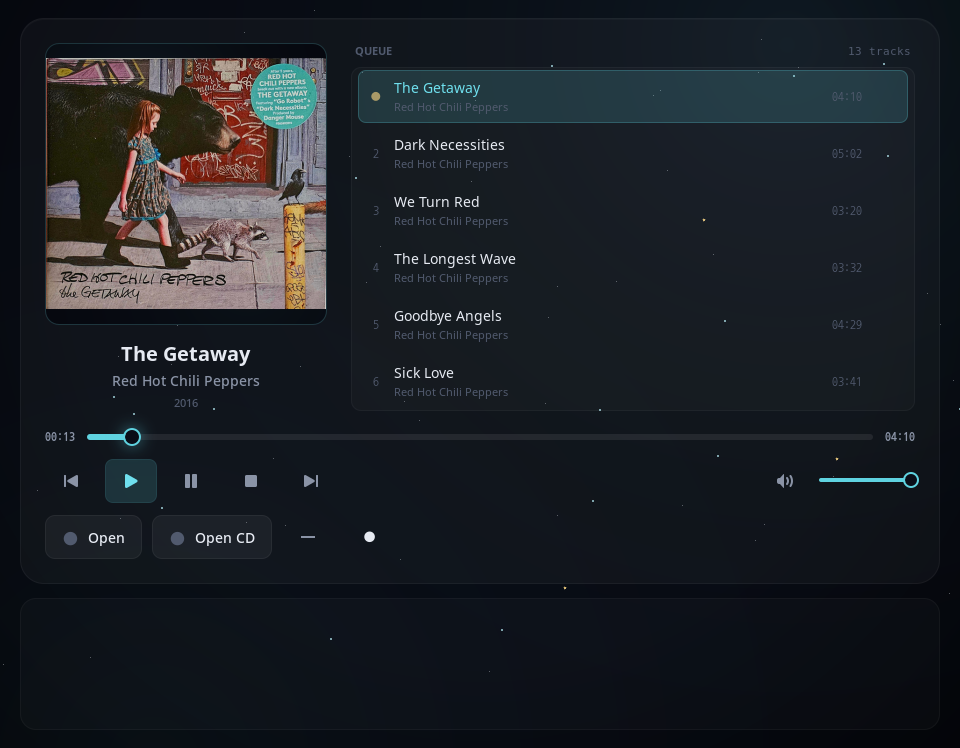
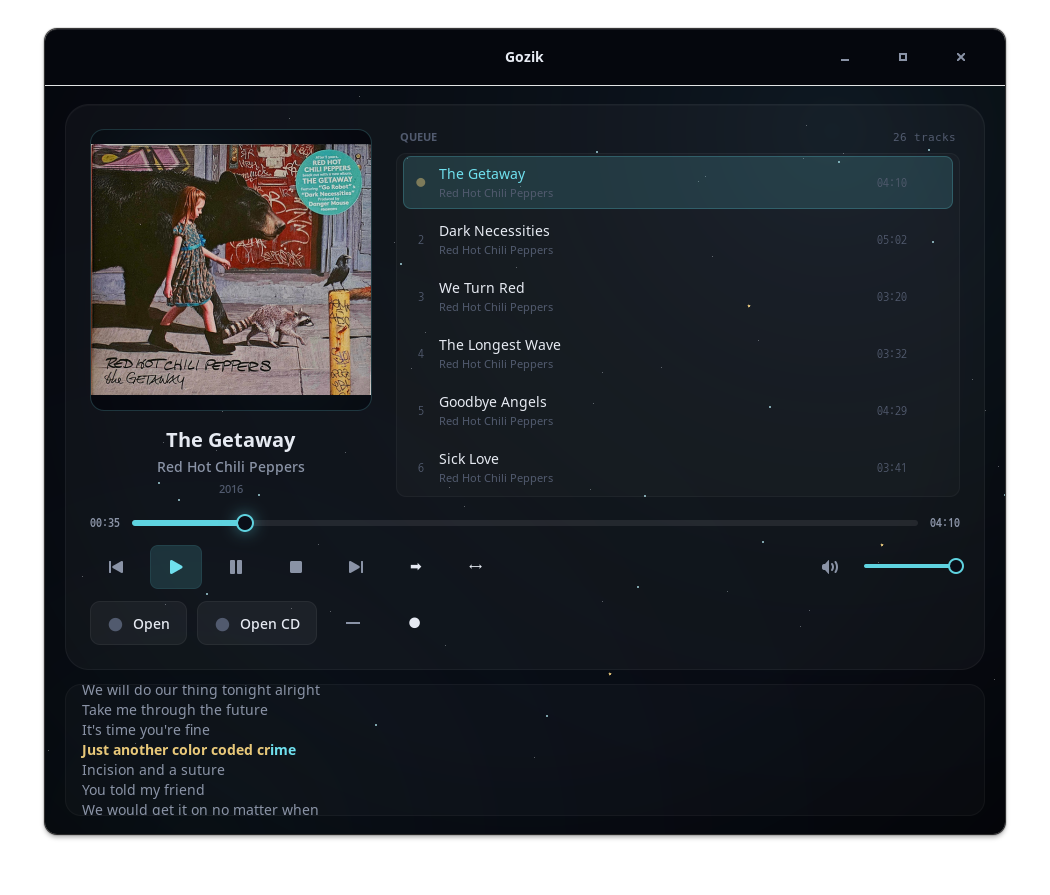
impl: implement lyrics highlighting

diff --git a/assets/ui/gozik.css b/assets/ui/gozik.css
@@ -562,3 +562,32 @@ window.theme-light button.btn-primary:hover { background-color: rgba(95,211,224,
 /* playing row cyan title + gold pulse */
 window.theme-light list row.playing #row-title { color: #008EA0; }
 window.theme-light list row.playing #row-lead { color: #C9A840; }
+
+/* ---------- custom headerbar for CSD ---------- */
+headerbar {
+  background-color: @abyss0;
+  background-image: none;
+  border-bottom: 1px solid rgba(95,211,224,0.12);
+  padding: 6px 12px;
+}
+headerbar .title {
+  color: @text1;
+  font-weight: bold;
+  font-size: 14px;
+}
+headerbar .subtitle {
+  color: @text2;
+  font-size: 11px;
+}
+
+window.theme-light headerbar {
+  background-color: #E6EAF2;
+  border-bottom: 1px solid rgba(0,0,0,0.1);
+}
+window.theme-light headerbar .title {
+  color: #1A1D26;
+}
+window.theme-light headerbar .subtitle {
+  color: #5A6270;
+}
+

diff --git a/internal/ui/window.go b/internal/ui/window.go
@@ -118,6 +118,14 @@ func NewMainWindow(app *gtk.Application) (*MainWindow, error) {
 		return nil, fmt.Errorf("object is not *gtk.ApplicationWindow")
 	}
 	mw.win = win
+
+	headerBar, err := gtk.HeaderBarNew()
+	if err == nil {
+		headerBar.SetShowCloseButton(true)
+		headerBar.SetTitle("Gozik")
+		win.SetTitlebar(headerBar)
+	}
+
 	mw.bindSystemTheme(gtkSettings)
 
 	obj, err = builder.GetObject("Songlist")
@@ -380,6 +388,7 @@ func (mw *MainWindow) applySystemTheme() {
 			}
 		}
 	}
+	mw.updateLyricTagColors()
 }
 
 func (mw *MainWindow) onThemeToggle() {
@@ -395,6 +404,33 @@ func (mw *MainWindow) onThemeToggle() {
 	}
 	config.SaveTheme(mw.themeMode)
 	mw.applySystemTheme()
+}
+
+func (mw *MainWindow) updateLyricTagColors() {
+	if mw.lyricTagNow == nil || mw.lyricTagSung == nil {
+		return
+	}
+
+	dark := true
+	switch mw.themeMode {
+	case "dark":
+		dark = true
+	case "light":
+		dark = false
+	case "system":
+		dark = prefersDarkTheme(mw.gtkSettings, mw.desktopSettings)
+	default:
+		dark = prefersDarkTheme(mw.gtkSettings, mw.desktopSettings)
+	}
+
+	if dark {
+		mw.lyricTagNow.SetProperty("foreground", "#6FE0EE")
+		mw.lyricTagSung.SetProperty("foreground", "#E8C879")
+	} else {
+		// Use visible dark cyan/teal and dark gold in light mode
+		mw.lyricTagNow.SetProperty("foreground", "#008EA0")
+		mw.lyricTagSung.SetProperty("foreground", "#C9A840")
+	}
 }
 
 func (mw *MainWindow) updateThemeButtonIcon() {
@@ -1266,7 +1302,16 @@ func (mw *MainWindow) startTicker() {
 							}
 							if targetLine != mw.currentLyricLine {
 								mw.currentLyricLine = targetLine
-								mw.lyricsView.ScrollToIter(lineStart, 0.0, true, 0.0, 0.5)
+								glib.IdleAdd(func() bool {
+									b, _ := mw.lyricsView.GetBuffer()
+									if b != nil {
+										iter := b.GetIterAtLine(targetLine)
+										mark := b.CreateMark("", iter, true)
+										mw.lyricsView.ScrollToMark(mark, 0.0, true, 0.0, 0.5)
+										b.DeleteMark(mark)
+									}
+									return false
+								})
 							}
 						}
 					}
@@ -1434,11 +1479,15 @@ func (mw *MainWindow) loadLyrics(song *models.Song) {
 			if b != nil {
 				b.SetText(displayText)
 				if mw.lyricTagNow == nil {
-					mw.lyricTagNow = b.CreateTag("now", map[string]interface{}{"foreground": "#6FE0EE"})
+					mw.lyricTagNow = b.CreateTag("now", map[string]interface{}{
+						"foreground": "#6FE0EE",
+						"weight":     pango.WEIGHT_BOLD,
+					})
 				}
 				if mw.lyricTagSung == nil {
 					mw.lyricTagSung = b.CreateTag("sung", map[string]interface{}{"foreground": "#E8C879"})
 				}
+				mw.updateLyricTagColors()
 			}
 			mw.syncedLyrics = synced
 			mw.currentLyricLine = -1
@@ -1451,6 +1500,12 @@ func (mw *MainWindow) loadSongInfo(song *models.Song) {
 	if song.IsCD {
 		return
 	}
+	// Immediately clear the album cover before loading new metadata
+	glib.IdleAdd(func() bool {
+		mw.setAlbumCover(nil)
+		return false
+	})
+
 	go func() {
 		// 1. Try metadata first (artist/album/title + embedded cover)
 		if song.Artist == "" || song.Album == "" || song.Title == "" || len(song.CoverData) == 0 {
@@ -1555,7 +1610,11 @@ func (mw *MainWindow) loadSongInfo(song *models.Song) {
 }
 
 func (mw *MainWindow) setAlbumCover(data []byte) {
-	if mw.albumCover == nil || len(data) == 0 {
+	if mw.albumCover == nil {
+		return
+	}
+	if len(data) == 0 {
+		mw.albumCover.Clear()
 		return
 	}
 	loader, err := gdk.PixbufLoaderNew()

diff --git a/internal/audio/lyrics.go b/internal/audio/lyrics.go
@@ -24,7 +24,7 @@ type lrclibResult struct {
 	TrackName    string `json:"trackName"`
 	ArtistName   string `json:"artistName"`
 	AlbumName    string `json:"albumName"`
-	Duration     int    `json:"duration"`
+	Duration     float64 `json:"duration"`
 	Instrumental bool   `json:"instrumental"`
 	PlainLyrics  string `json:"plainLyrics"`
 	SyncedLyrics string `json:"syncedLyrics"`
@@ -99,11 +99,11 @@ func SearchLyrics(title, artist, album string, durationSec int) (string, error) 
 	if best.Instrumental {
 		return "(Instrumental)", nil
 	}
+	if best.SyncedLyrics != "" {
+		return best.SyncedLyrics, nil
+	}
 	if best.PlainLyrics != "" {
 		return best.PlainLyrics, nil
-	}
-	if best.SyncedLyrics != "" {
-		return stripSyncTags(best.SyncedLyrics), nil
 	}
 	return "", fmt.Errorf("empty lyrics in result")
 }
@@ -136,11 +136,11 @@ func fetchSingleLyrics(reqURL string) (string, error) {
 	if result.Instrumental {
 		return "(Instrumental)", nil
 	}
+	if result.SyncedLyrics != "" {
+		return result.SyncedLyrics, nil
+	}
 	if result.PlainLyrics != "" {
 		return result.PlainLyrics, nil
-	}
-	if result.SyncedLyrics != "" {
-		return stripSyncTags(result.SyncedLyrics), nil
 	}
 	return "", fmt.Errorf("empty lyrics")
 }
@@ -184,7 +184,7 @@ func pickBestResult(results []lrclibResult, queryTitle, queryArtist, queryAlbum 
 				}
 			}
 			if queryDuration > 0 && r.Duration > 0 {
-				diff := queryDuration - r.Duration
+				diff := queryDuration - int(r.Duration)
 				if diff < 0 {
 					diff = -diff
 				}
@@ -253,7 +253,7 @@ func pickBestResult(results []lrclibResult, queryTitle, queryArtist, queryAlbum 
 
 		// Duration proximity (critical for blues/jazz alternate takes)
 		if queryDuration > 0 && r.Duration > 0 {
-			diff := queryDuration - r.Duration
+			diff := queryDuration - int(r.Duration)
 			if diff < 0 {
 				diff = -diff
 			}

diff --git a/internal/audio/lyrics_test.go b/internal/audio/lyrics_test.go
@@ -1,0 +1,27 @@
+package audio
+
+import (
+	"testing"
+)
+
+func TestSearchLyrics(t *testing.T) {
+	// 1. Exact match (exact duration)
+	lyrics, err := SearchLyrics("We Turn Red", "Red Hot Chili Peppers", "The Getaway", 200)
+	if err != nil {
+		t.Fatalf("SearchLyrics (exact duration 200) failed: %v", err)
+	}
+	if lyrics == "" {
+		t.Fatal("SearchLyrics (exact duration 200) returned empty lyrics")
+	}
+	t.Logf("SearchLyrics (exact duration 200) succeeded! Lyrics preview: %s", lyrics[:100])
+
+	// 2. Off-by-five duration (should trigger fallback search and fuzzy match)
+	lyrics2, err := SearchLyrics("We Turn Red", "Red Hot Chili Peppers", "The Getaway", 195)
+	if err != nil {
+		t.Fatalf("SearchLyrics (off-by-five duration 195) failed: %v", err)
+	}
+	if lyrics2 == "" {
+		t.Fatal("SearchLyrics (off-by-five duration 195) returned empty lyrics")
+	}
+	t.Logf("SearchLyrics (off-by-five duration 195) succeeded! Lyrics preview: %s", lyrics2[:100])
+}
